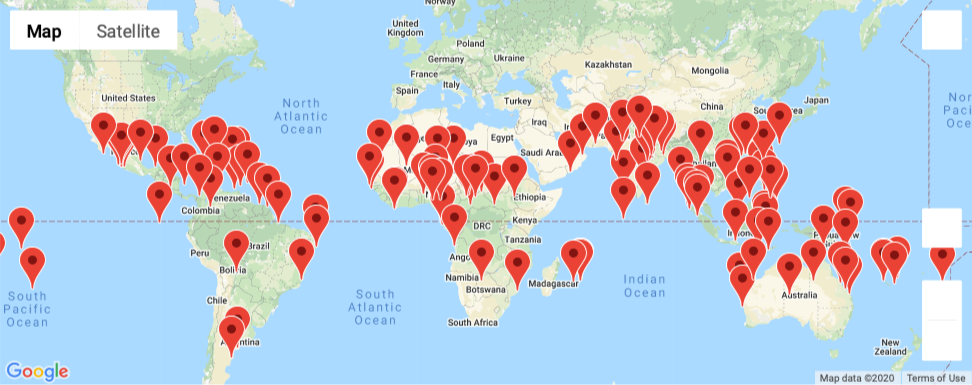
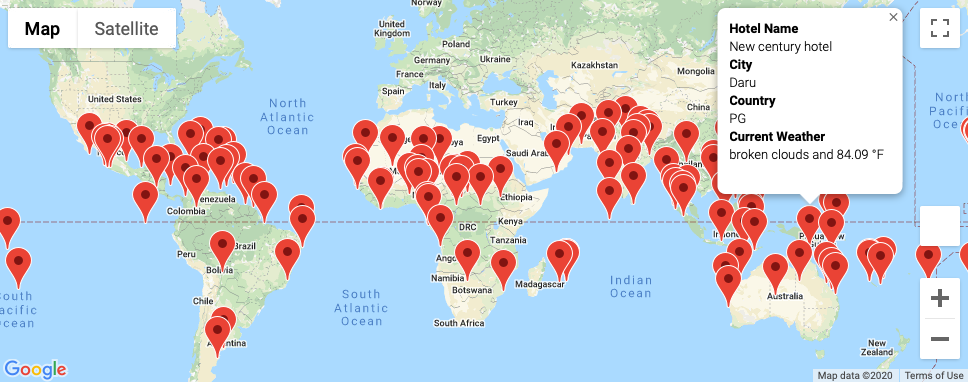
Cleaned up code and added readme

diff --git a/README.md b/README.md
@@ -1,1 +1,21 @@
 # World_Weather_Analysis
+Perform new modifications to thePlanMyTrip app.
+
+## Challenge Overview
+- Part 1: Get the Weather Description and Amount of Precipitation for Each City.
+- Part 2: Have Customers Narrow Their Travel Searches Based on Temperature and Precipitation.
+- Part 3: Create a Travel Itinerary with a Corresponding Map.
+
+# Documents and required information for the challenge:
+- Part 1:
+    - Weather_Database.ipynb
+    - weather_data/WeatherPy_challenge.csv
+    - This set of data concluded that there were 105 cities with recorded rain or snowfall.
+- Part 2:
+    - Vacation_Search.ipynb
+    - weather_data/WeatherPy_vacation.csv
+    - weather_data/WeatherPy_vacation_map.png
+- Part 3:
+    - Vacation_Itinerary.ipynb
+    - weather_data/WeatherPy_travel_map.png
+    - weather_data/WeatherPy_travel_map_markers.png
